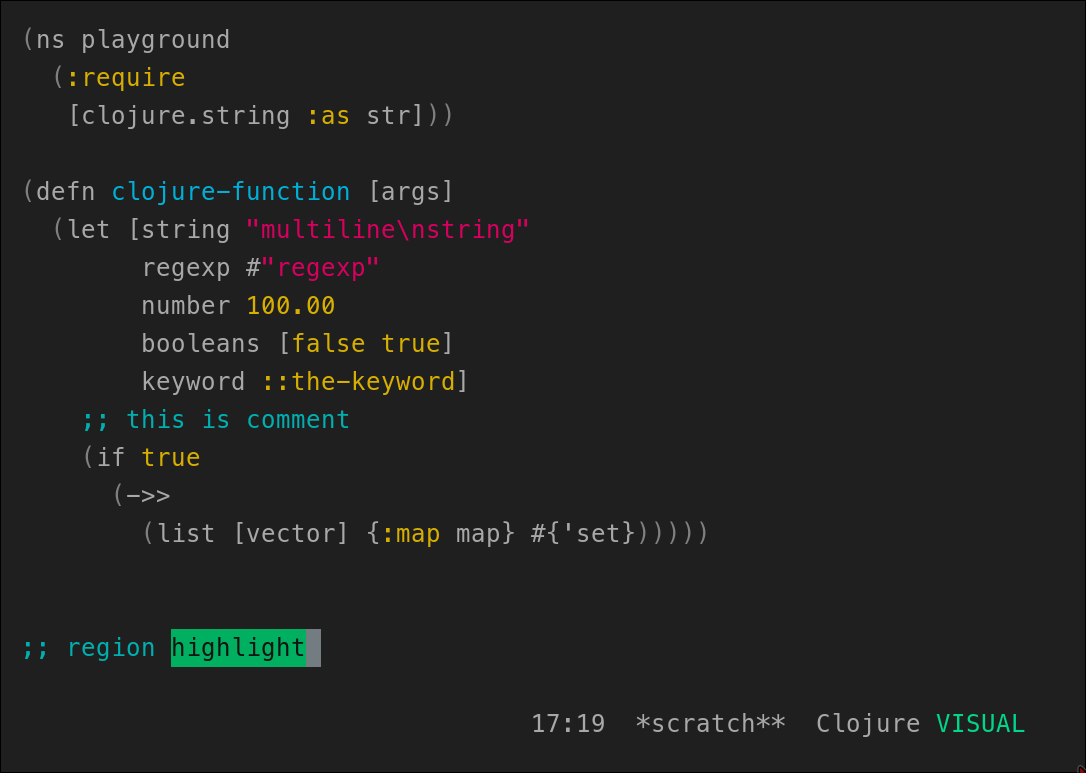
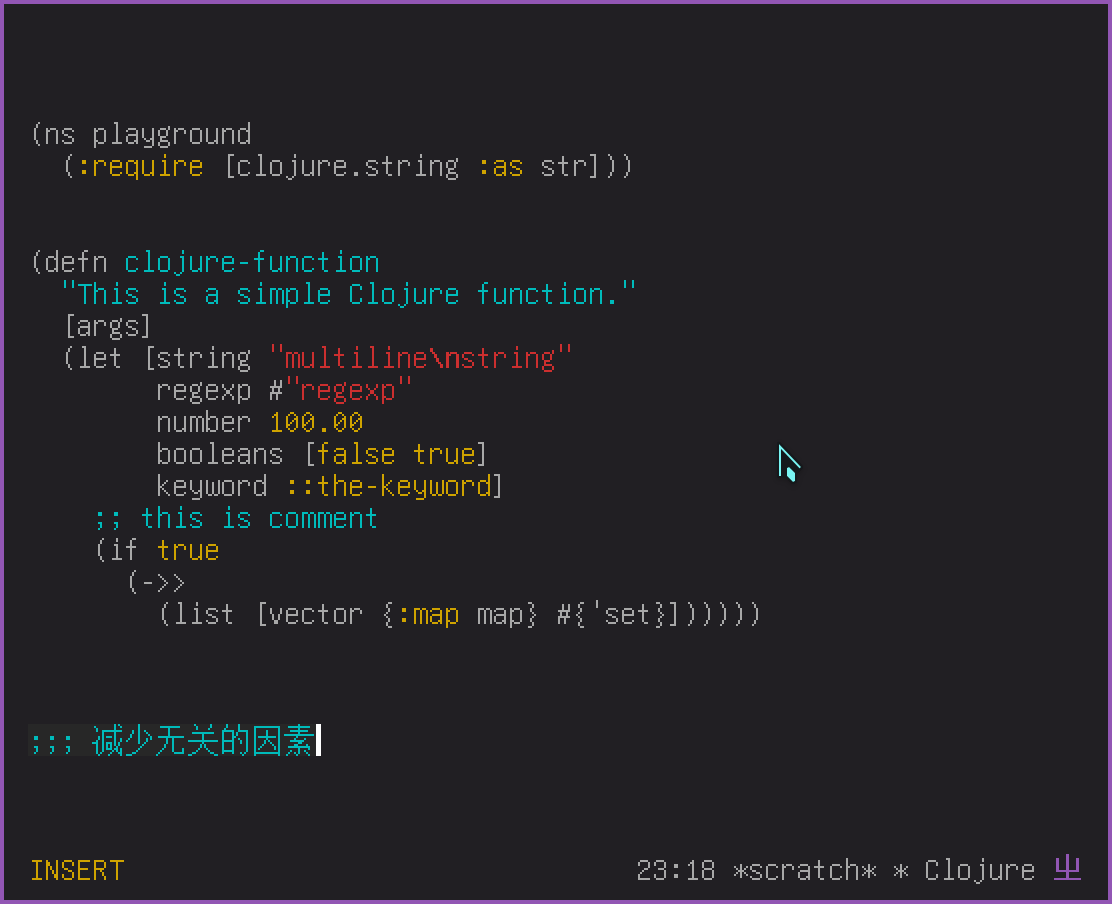
update doc & screenshot

Changed region(s): [[0.0, 0.0, 1.0, 1.0], [0.4862, 0.1552, 0.5773, 0.1863], [0.6989, 0.4968, 0.7293, 0.5278]]

diff --git a/README.md b/README.md
@@ -17,6 +17,3 @@ so it only have highlight on following syntax:
 3. Comment
 4. Constant
 
-## Background color
-
-This theme doesn't ship a background color, to make it looks more coordinated in terminal.
